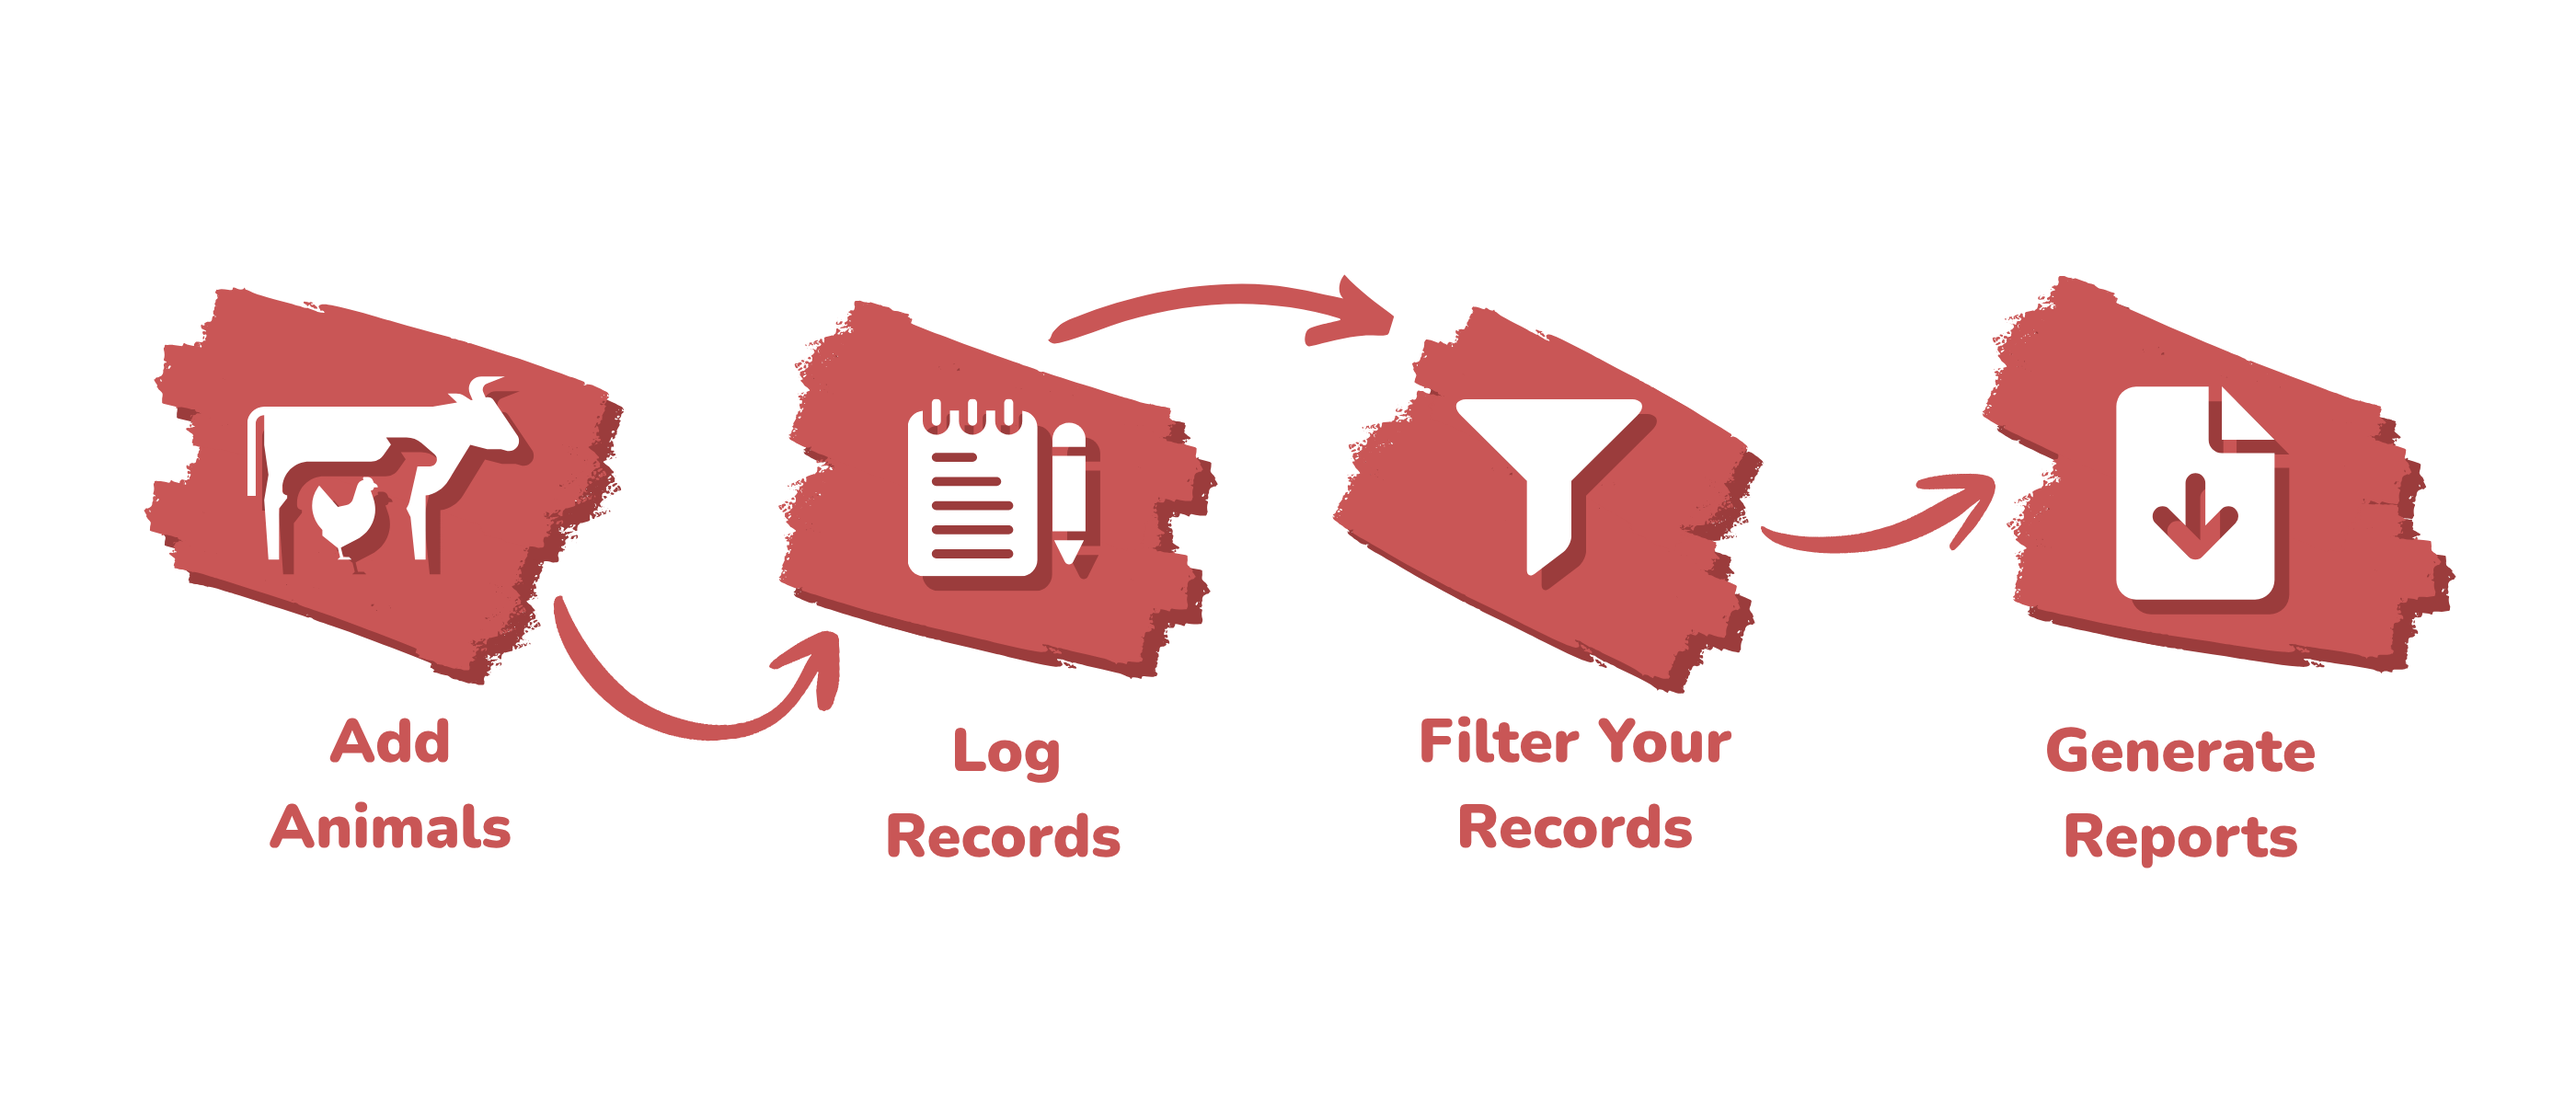
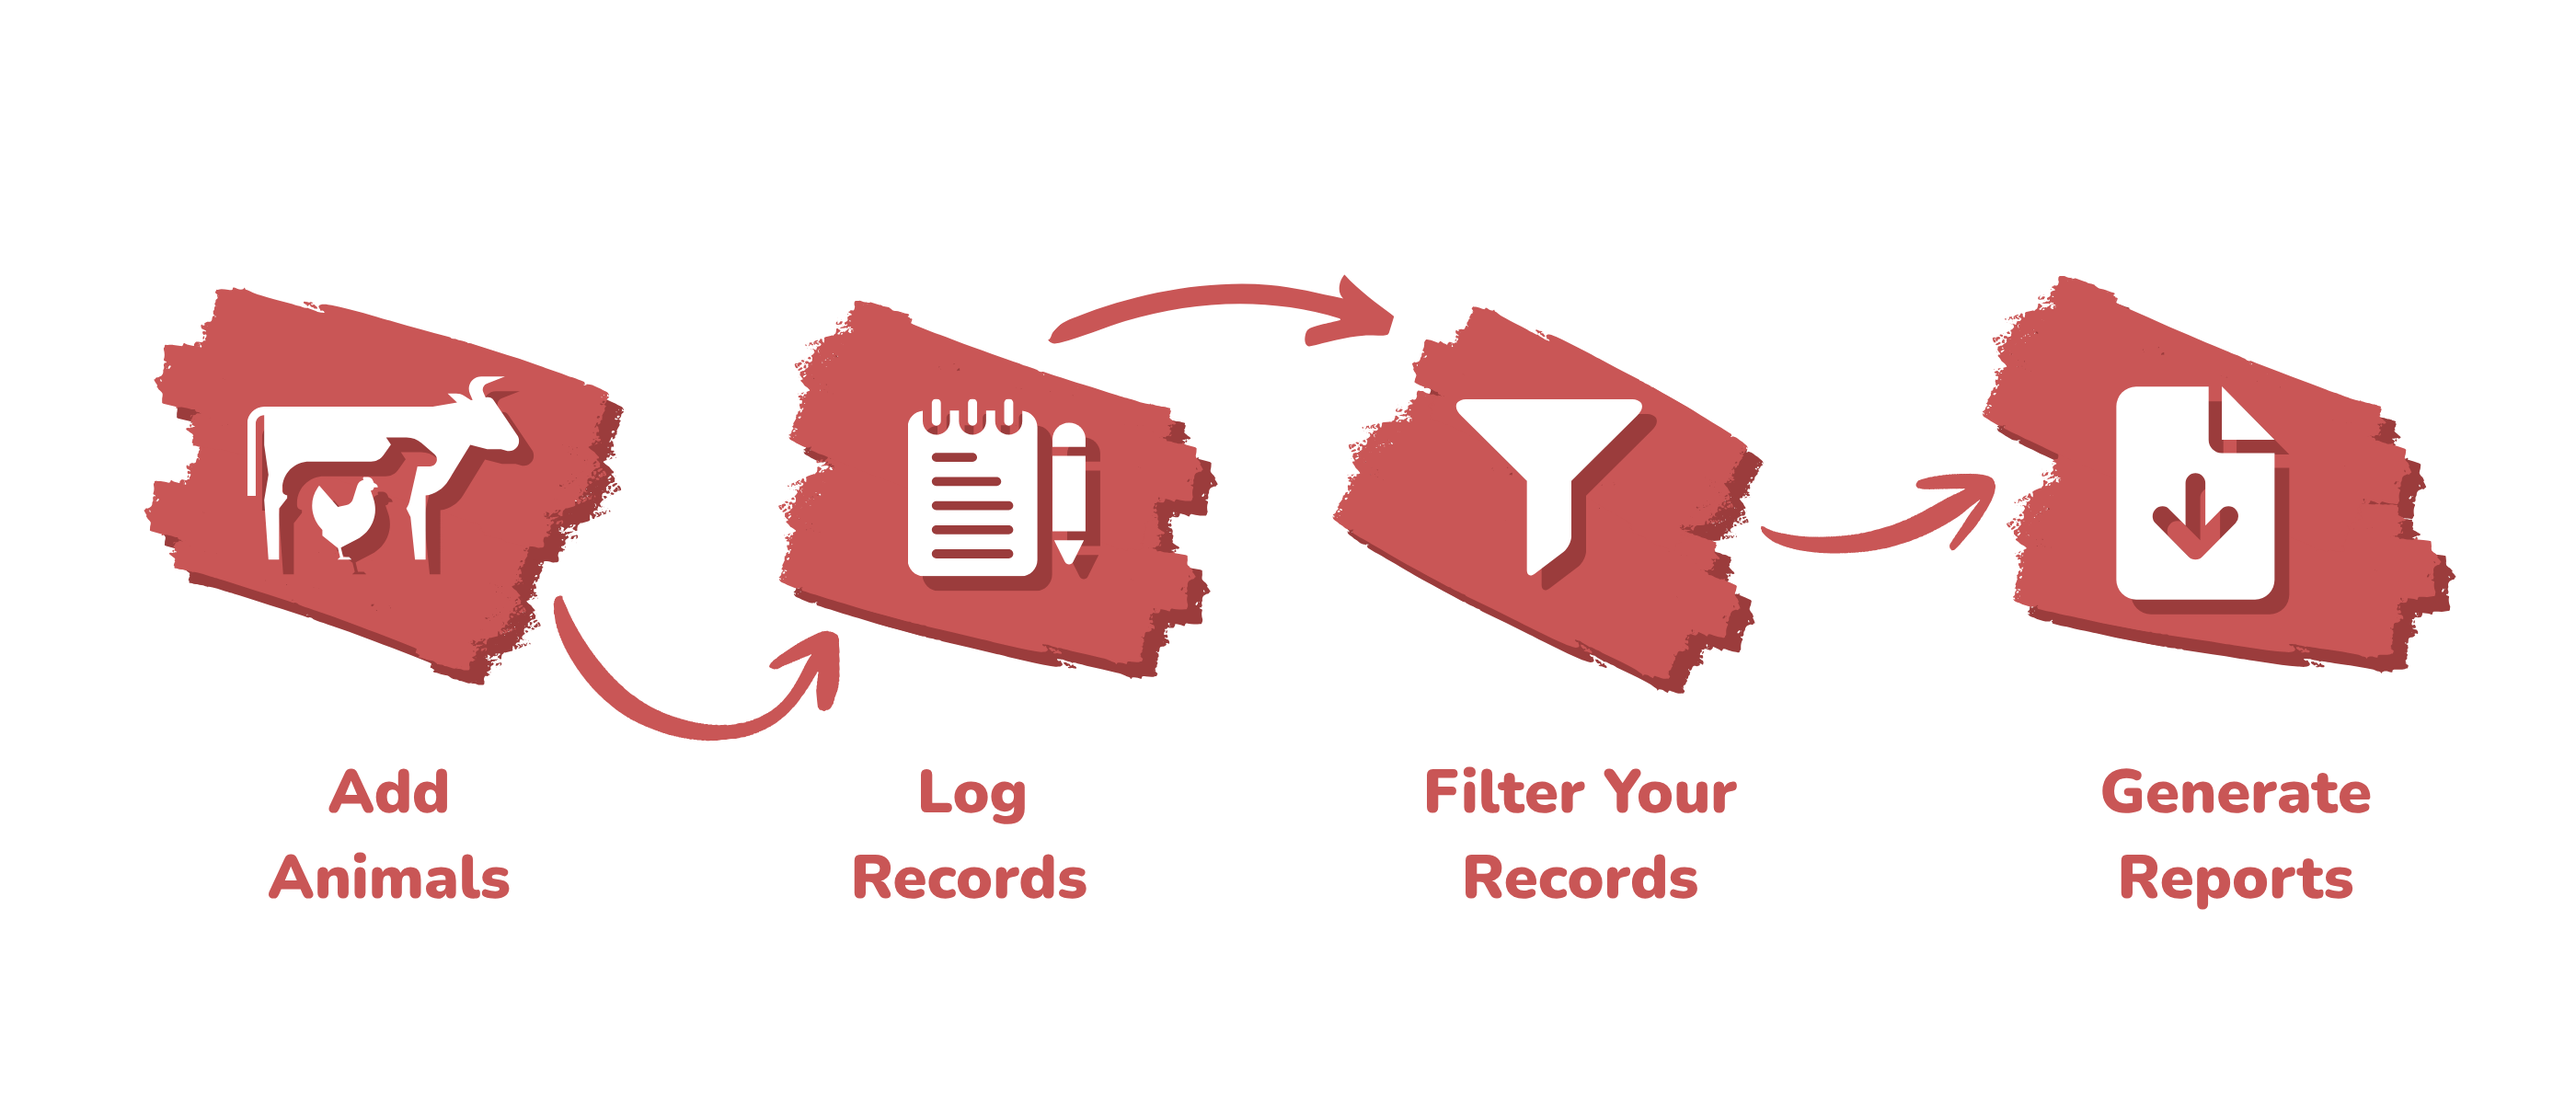
Update USP graphic artwork
Swap in the revised four-step graphic and bump the image src to ?v=2 so
returning visitors are not served the previously cached version, since
the filename is unchanged.

diff --git a/docs/index.html b/docs/index.html
@@ -87,7 +87,7 @@
         </ul>
 
         <figure class="hero-usp">
-          <img src="./images/usp-graphic.png" alt="How LivestockBook works: add animals, log records, filter your records, generate reports" loading="eager" />
+          <img src="./images/usp-graphic.png?v=2" alt="How LivestockBook works: add animals, log records, filter your records, generate reports" loading="eager" />
         </figure>
       </div>
     </section>
